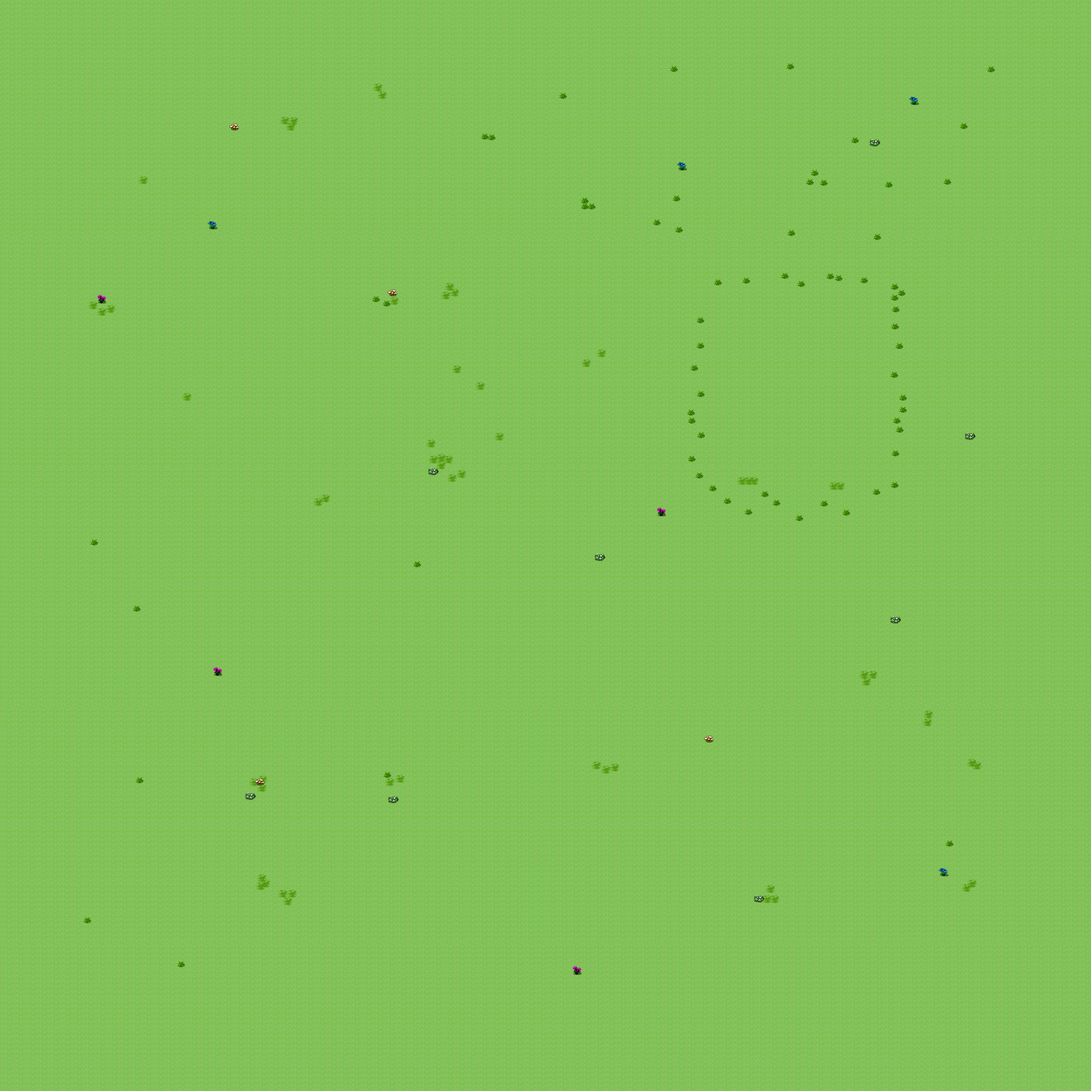
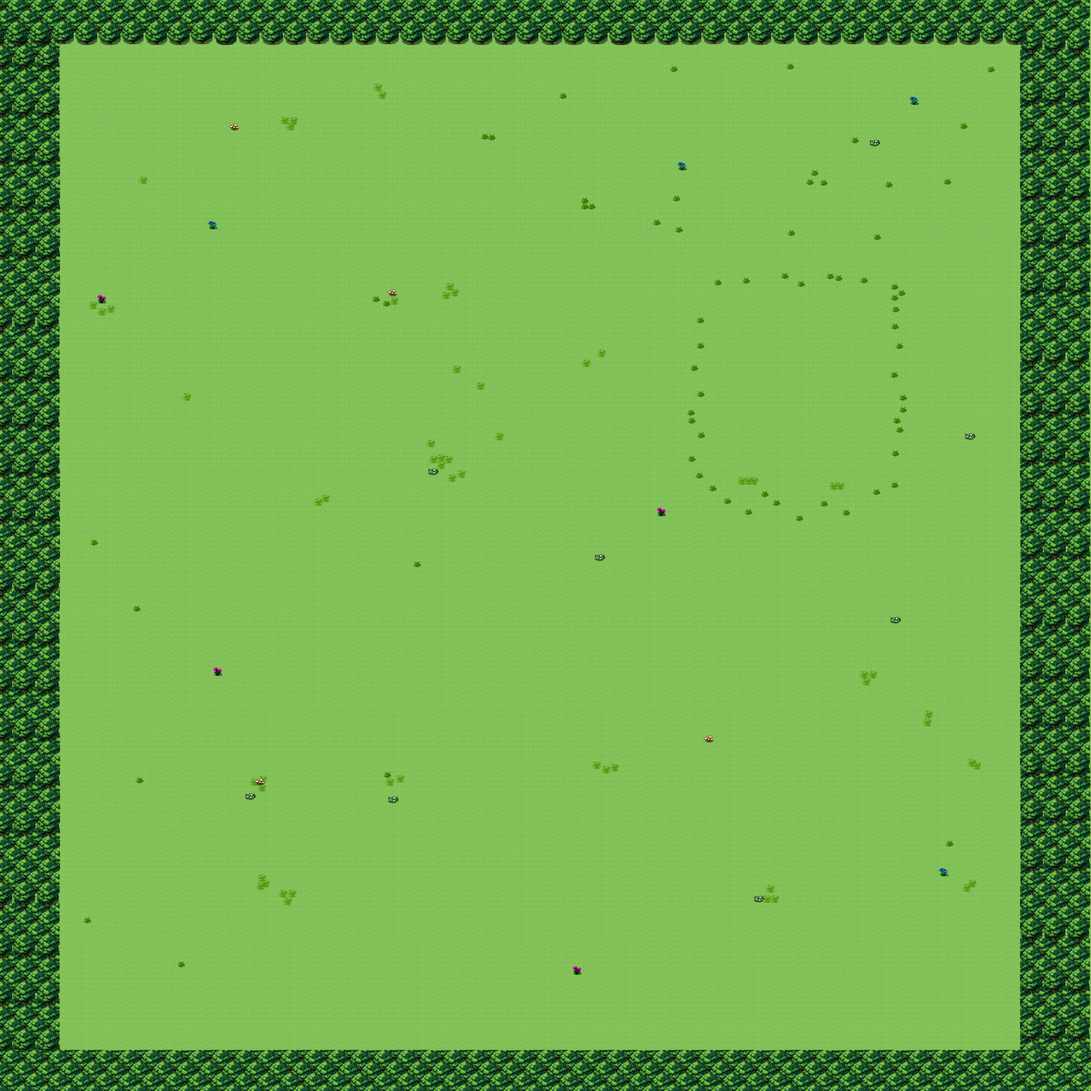
finally manged to add obstacles to level 4 and 3

Changed region(s): [[0.0, 0.0, 1.0, 1.0]]

diff --git a/current version/levels/level4.py b/current version/levels/level4.py
@@ -1,9 +1,9 @@
 import sys
 sys.path.insert(0,'../')
 from levels import levels
-from constants import w_width, w_height, wolfPath, bearPath,colors
+from constants import w_width, w_height, wolfPath, bearPath,armBearPath,colors
 import enemy, items, backgrounds,sounds
-import random, pygame, math
+import random, pygame, math, json
 
 class level(levels):
 
@@ -14,13 +14,18 @@ class level(levels):
         self.startingPosX = 600
         self.startingPosY = 350
         self.soundFX = sounds.SoundFX()
-        self.obstacleCoords = {}
+
+        
+        with open('assets/images/levelFour/level4obstacles.json','rb') as obstacles:
+            self.obstacleCoords = json.load(obstacles)
+
         self.obstacles = items.createObstacles(self.obstacleCoords)
 
         enemyStartX, enemyStartY = random.randrange(w_width),random.randrange(w_height) # give enemies random start points
         wolf = levelEnemy((enemyStartX, enemyStartY),wolfPath,7)
         bear = levelEnemy((enemyStartX, enemyStartY),bearPath,7)
-        self.enemies = [wolf,bear]
+        coolBear = levelBear((0,0),armBearPath,3)
+        self.enemies = [wolf,bear,coolBear]
         self.background = backgrounds.Background(4)
 
         self.timer = (30*60)*2  # 2 minutes at 30 fps
@@ -188,3 +193,205 @@ class levelEnemy(enemy.Enemy):
 
         self.image = self.sheet.subsurface(self.sheet.get_clip())
     
+    
+
+class levelBear(enemy.Enemy):
+
+    def update(self,keith,bg,keys,collision,obstacles,crystals):
+        if not collision:
+            if keys[pygame.K_a]:
+                self.rectangle.x += keith.speed
+            if keys[pygame.K_d]:
+                self.rectangle.x -= keith.speed
+            if keys[pygame.K_w]:
+                self.rectangle.y += keith.speed
+            if keys[pygame.K_s]:
+                self.rectangle.y -= keith.speed
+
+        index = 0
+
+        # Invert behaviour, run away!
+        if self.detection.colliderect(keith.rectangle):
+            if not self.inInterval:
+                update = True
+            else:
+                update = False
+            self.runAway(bg,keith.rectangle,update)
+        else:
+            self.patrol(bg,obstacles)
+            self.caughtHim = 0
+            self.detection = self.rectangle.inflate(self.inflate,self.inflate)
+        return crystals
+
+    def runAway(self,bg,playerRect,update,ghost=False,):
+            
+
+        # increase detection range
+        if not ghost:
+            self.detection = self.rectangle.inflate(400,300)
+
+        if update:
+            self.inInterval = 5
+            x = (playerRect.x - self.rectangle.x)
+            y = (playerRect.y - self.rectangle.y)
+        
+            length = math.sqrt((x*x)+(y*y))
+
+            headingX = float(x/length)*-1
+            headingY = float(y/length)*-1
+
+            newHeading = vector(headingX,headingY)
+        else:
+            self.inInterval -= 1
+            x = self.rectangle.x
+            y = self.rectangle.y
+            newHeading = self.heading
+            headingX = self.heading.x
+            headingY = self.heading.y
+
+        nextXPos = self.rectangle.x + (self.speed*headingX)
+        nextYPos = self.rectangle.y + (self.speed*headingY)
+        
+        if nextXPos - bg.x > (bg.resolution[0]-self.rectangle.width):
+            newHeading = vector((-1*headingX),headingY)
+            nextXPos = (bg.resolution[0]-self.rectangle.width)+bg.x
+        if nextXPos - bg.x <= 0:
+            newHeading = vector((-1*headingX),headingY)
+            nextXPos = bg.x
+        if nextYPos - bg.y > (bg.resolution[1]-self.rectangle.height):
+            newHeading = vector(headingX,(-1*headingY))
+            nextYPos = (bg.resolution[1]-self.rectangle.width)+bg.y
+        if nextYPos -bg.y <= 0:
+            newHeading = vector(headingX,(-1*headingY))
+            nextYPos = bg.y
+
+        self.rectangle.x = nextXPos
+        self.rectangle.y = nextYPos
+        self.heading = newHeading
+
+        if y > 0:             # player below
+            self.move(self.down_states)
+        elif y < 0:             # player above
+            self.move(self.up_states)
+        elif x > 0:               # player to right
+            self.move(self.right_states)
+        elif x < 0:             # player to left
+            self.move(self.left_states)
+
+        self.image = self.sheet.subsurface(self.sheet.get_clip())
+
+    def patrol(self,bg,obstacles,ghost=False):
+        
+        if self.direction == 'left':
+            if (self.rectangle.x - bg.x > self.speed):
+                self.rectangle.x -= self.speed
+                self.move(self.left_states)
+            else:
+                self.direction = 'down'
+
+        if self.direction == 'right':
+            if (self.rectangle.x - bg.x < w_width - self.rectangle.width):
+                self.rectangle.x += self.speed
+                self.move(self.right_states)
+            else:
+                self.direction = 'up'
+
+        if self.direction == 'up':
+            if (self.rectangle.y - bg.y > self.speed):
+                self.rectangle.y -= self.speed
+                self.move(self.up_states)
+            else:
+                self.direction = 'left'
+        if self.direction == 'down':
+            if (self.rectangle.y -bg.y< w_height-self.rectangle.height):
+                self.rectangle.y += self.speed
+                self.move(self.down_states)
+            else:
+                self.direction = 'right'
+
+        self.image = self.sheet.subsurface(self.sheet.get_clip())
+        # Have to check for collisions here
+        # nextXPos = self.rectangle.x + (self.speed*self.heading.x)
+        # nextYPos = self.rectangle.y + (self.speed*self.heading.y)
+
+        # fnxt = math.floor(nextXPos)
+        # fnyt = math.floor(nextYPos)
+        
+        # if not ghost:
+        #     for obstacle in obstacles:
+        #         x = obstacle.rect.x
+        #         y = obstacle.rect.y
+        #         width = obstacle.rect.width
+        #         height = obstacle.rect.height
+        #         if (nextXPos > x-self.rectangle.width-6) and (nextXPos < x +width+6) and (nextYPos > y-self.rectangle.height-6) and (nextYPos < y+height+6):
+
+        #             if fnxt in range(x-self.rectangle.width-5,x-self.rectangle.width+5):
+        #                 # send back east
+        #                 newHeading = vector((-1*self.heading.x),self.heading.y)
+        #                 self.heading = newHeading
+        #                 nextXPos = x-self.rectangle.width
+        #             elif fnxt in range(x + width-5,x+width+5):
+        #                 # send back west
+        #                 newHeading = vector((-1*self.heading.x),self.heading.y)
+        #                 self.heading = newHeading
+        #                 nextXPos = x+width
+        #             elif fnyt in range(y-self.rectangle.height-5,y-self.rectangle.height+5):
+        #                 # send back north
+        #                 newHeading = vector(self.heading.x,(-1*self.heading.y))
+        #                 self.heading = newHeading
+        #                 nextYPos = y-self.rectangle.height
+        #             elif fnyt in range(y+height-5,y+height+5):
+        #                 # send back south
+        #                 newHeading = vector(self.heading.x,(-1*self.heading.y))
+        #                 self.heading = newHeading
+        #                 nextYPos = y+height
+
+        # if nextXPos - bg.x > (bg.resolution[0]-self.rectangle.width):
+        #     newHeading = vector((-1*self.heading.x),self.heading.y)
+        #     self.heading = newHeading
+        #     nextXPos = (bg.resolution[0]-self.rectangle.width)+bg.x
+        # if nextXPos - bg.x <= 0:
+        #     newHeading = vector((-1*self.heading.x),self.heading.y)
+        #     self.heading = newHeading
+        #     nextXPos = bg.x
+        # if nextYPos - bg.y > (bg.resolution[1]-self.rectangle.height):
+        #     newHeading = vector(self.heading.x,(-1*self.heading.y))
+        #     self.heading = newHeading
+        #     nextYPos = (bg.resolution[1]-self.rectangle.width)+bg.y
+        # if nextYPos -bg.y <= 0:
+        #     newHeading = vector(self.heading.x,(-1*self.heading.y))
+        #     self.heading = newHeading
+        #     nextYPos = bg.y
+
+        #  if nextXPos - bg.x > 1200 and nextYPos - bg.y > 
+        #     newHeading = vector((-1*self.heading.x),self.heading.y)
+        #     self.heading = newHeading
+        #     nextXPos = (bg.resolution[0]-self.rectangle.width)+bg.x
+        # if nextXPos - bg.x <= 0:
+        #     newHeading = vector((-1*self.heading.x),self.heading.y)
+        #     self.heading = newHeading
+        #     nextXPos = bg.x
+        # if nextYPos - bg.y > (bg.resolution[1]-self.rectangle.height):
+        #     newHeading = vector(self.heading.x,(-1*self.heading.y))
+        #     self.heading = newHeading
+        #     nextYPos = (bg.resolution[1]-self.rectangle.width)+bg.y
+        # if nextYPos -bg.y <= 0:
+        #     newHeading = vector(self.heading.x,(-1*self.heading.y))
+        #     self.heading = newHeading
+        #     nextYPos = bg.y
+
+        # self.rectangle.x = nextXPos
+        # self.rectangle.y = nextYPos
+
+        # if nextYPos > nextXPos: # animate vertical
+        #     if self.heading.y > 0:        # moving down
+        #         self.move(self.down_states)
+        #     else:
+        #         self.move(self.up_states)
+        # else:                   # animate hroizontal
+        #     if self.heading.x > 0:        # moving right
+        #         self.move(self.right_states)
+        #     else:
+        #         self.move(self.left_states)
+
+        # self.image = self.sheet.subsurface(self.sheet.get_clip())

diff --git a/current version/levels/level3.py b/current version/levels/level3.py
@@ -3,7 +3,7 @@ sys.path.insert(0,'../')
 from levels import levels
 from constants import w_width, w_height, wolfPath, bearPath,colors, blobPath
 import enemy, items, backgrounds,sounds
-import random, pygame, math
+import random, pygame, math, json
 
 class level(levels):
 
@@ -14,7 +14,11 @@ class level(levels):
         self.startingPosX = 600
         self.startingPosY = 350
         self.soundFX = sounds.SoundFX()
-        self.obstacleCoords = {'obst1': {'x':100 ,'y':500 , 'width':376 , 'height':296, 'path':'assets/images/suck.png' },'obst2':{'x':1500,'y':-200 , 'width':376, 'height':296, 'path':'assets/images/suck.png'}}
+
+        with open('assets/images/levelThree/level3obstacles.json','rb') as obstacles:
+            self.obstacleCoords = json.load(obstacles)
+
+        # self.obstacleCoords = {'obst1': {'x':100 ,'y':500 , 'width':376 , 'height':296, 'path':'assets/images/suck.png' },'obst2':{'x':1500,'y':-200 , 'width':376, 'height':296, 'path':'assets/images/suck.png'}}
         self.obstacles = items.createObstacles(self.obstacleCoords)
 
         # top left

diff --git a/current version/constants.py b/current version/constants.py
@@ -5,20 +5,12 @@
 w_width = 1200
 w_height = 700
 
-# sprite stuff
-# playerPath1 = ['../assets/sprites/modern/','serge_run.png']
-# playerPath2 = ['../assets/sprites/player/hetalia/','hetalia.png']
-# playerPath3 = ['../assets/sprites/player/serge/','serge.png']
-# wolfPath = ['../assets/sprites/enemies/wolf/','wolf.png']
-# bearPath = ['../assets/sprites/enemies/scaryBear/','scaryBear.png']
-# blobPath = ['../assets/sprites/enemies/blob/','blob.png']
-# itemPath = ['../assets/sprites/items/','crystal.png']
-
 playerPath1 = ['assets/sprites/modern/','serge_run.png']
 playerPath2 = ['assets/sprites/player/hetalia/','hetalia.png']
 playerPath3 = ['assets/sprites/player/serge/','serge.png']
 wolfPath = ['assets/sprites/enemies/wolf/','wolf.png']
 bearPath = ['assets/sprites/enemies/scaryBear/','scaryBear.png']
+armBearPath = ['assets/sprites/enemies/armouredBear/','bear.png']
 blobPath = ['assets/sprites/enemies/blob/','blob.png']
 itemPath = ['assets/sprites/items/','crystal.png']
 

diff --git a/current version/levels/backgrounds.py b/current version/levels/backgrounds.py
@@ -34,7 +34,7 @@ class Background():
             self.y = -1000
 
         elif level == 4:
-            self.pic = pygame.image.load('assets/images/levelFour/Level4.png').convert()
+            self.pic = pygame.image.load('assets/images/levelFour/GroundAndOutline.png').convert()
             self.resolution = (3000,3000)
             self.offset = 1000
             self.x = -1000

diff --git a/current version/keithToThePast.py b/current version/keithToThePast.py
@@ -54,7 +54,7 @@ if __name__ == '__main__':
         #    level.playLvlMusic(levelNum)
 
         frameCount+=1
-        if sink.itemsHeld == 10:
+        if sink.itemsHeld == 1:
               # print "player score is : " + str(keith.score)
               # sys.exit()
             reset(sink,soundEffects,initRect,initCrystal,crystalList)

diff --git a/current version/assets/sprites/enemies/armouredBear/make.py b/current version/assets/sprites/enemies/armouredBear/make.py
@@ -1,0 +1,13 @@
+import json
+
+ds ={"0": [0, 330.0, 112.0, 110.0], "1": [112.0, 330.0, 112.0, 110.0], "2": [224.0, 330.0, 112.0, 110.0]}
+
+index = 0
+new = dict()
+for value in ds.values():
+    for i in range(3):
+        new[str(index)]=value
+        index+=1
+
+with open('output.json','w') as f:
+    json.dump(new,f)
